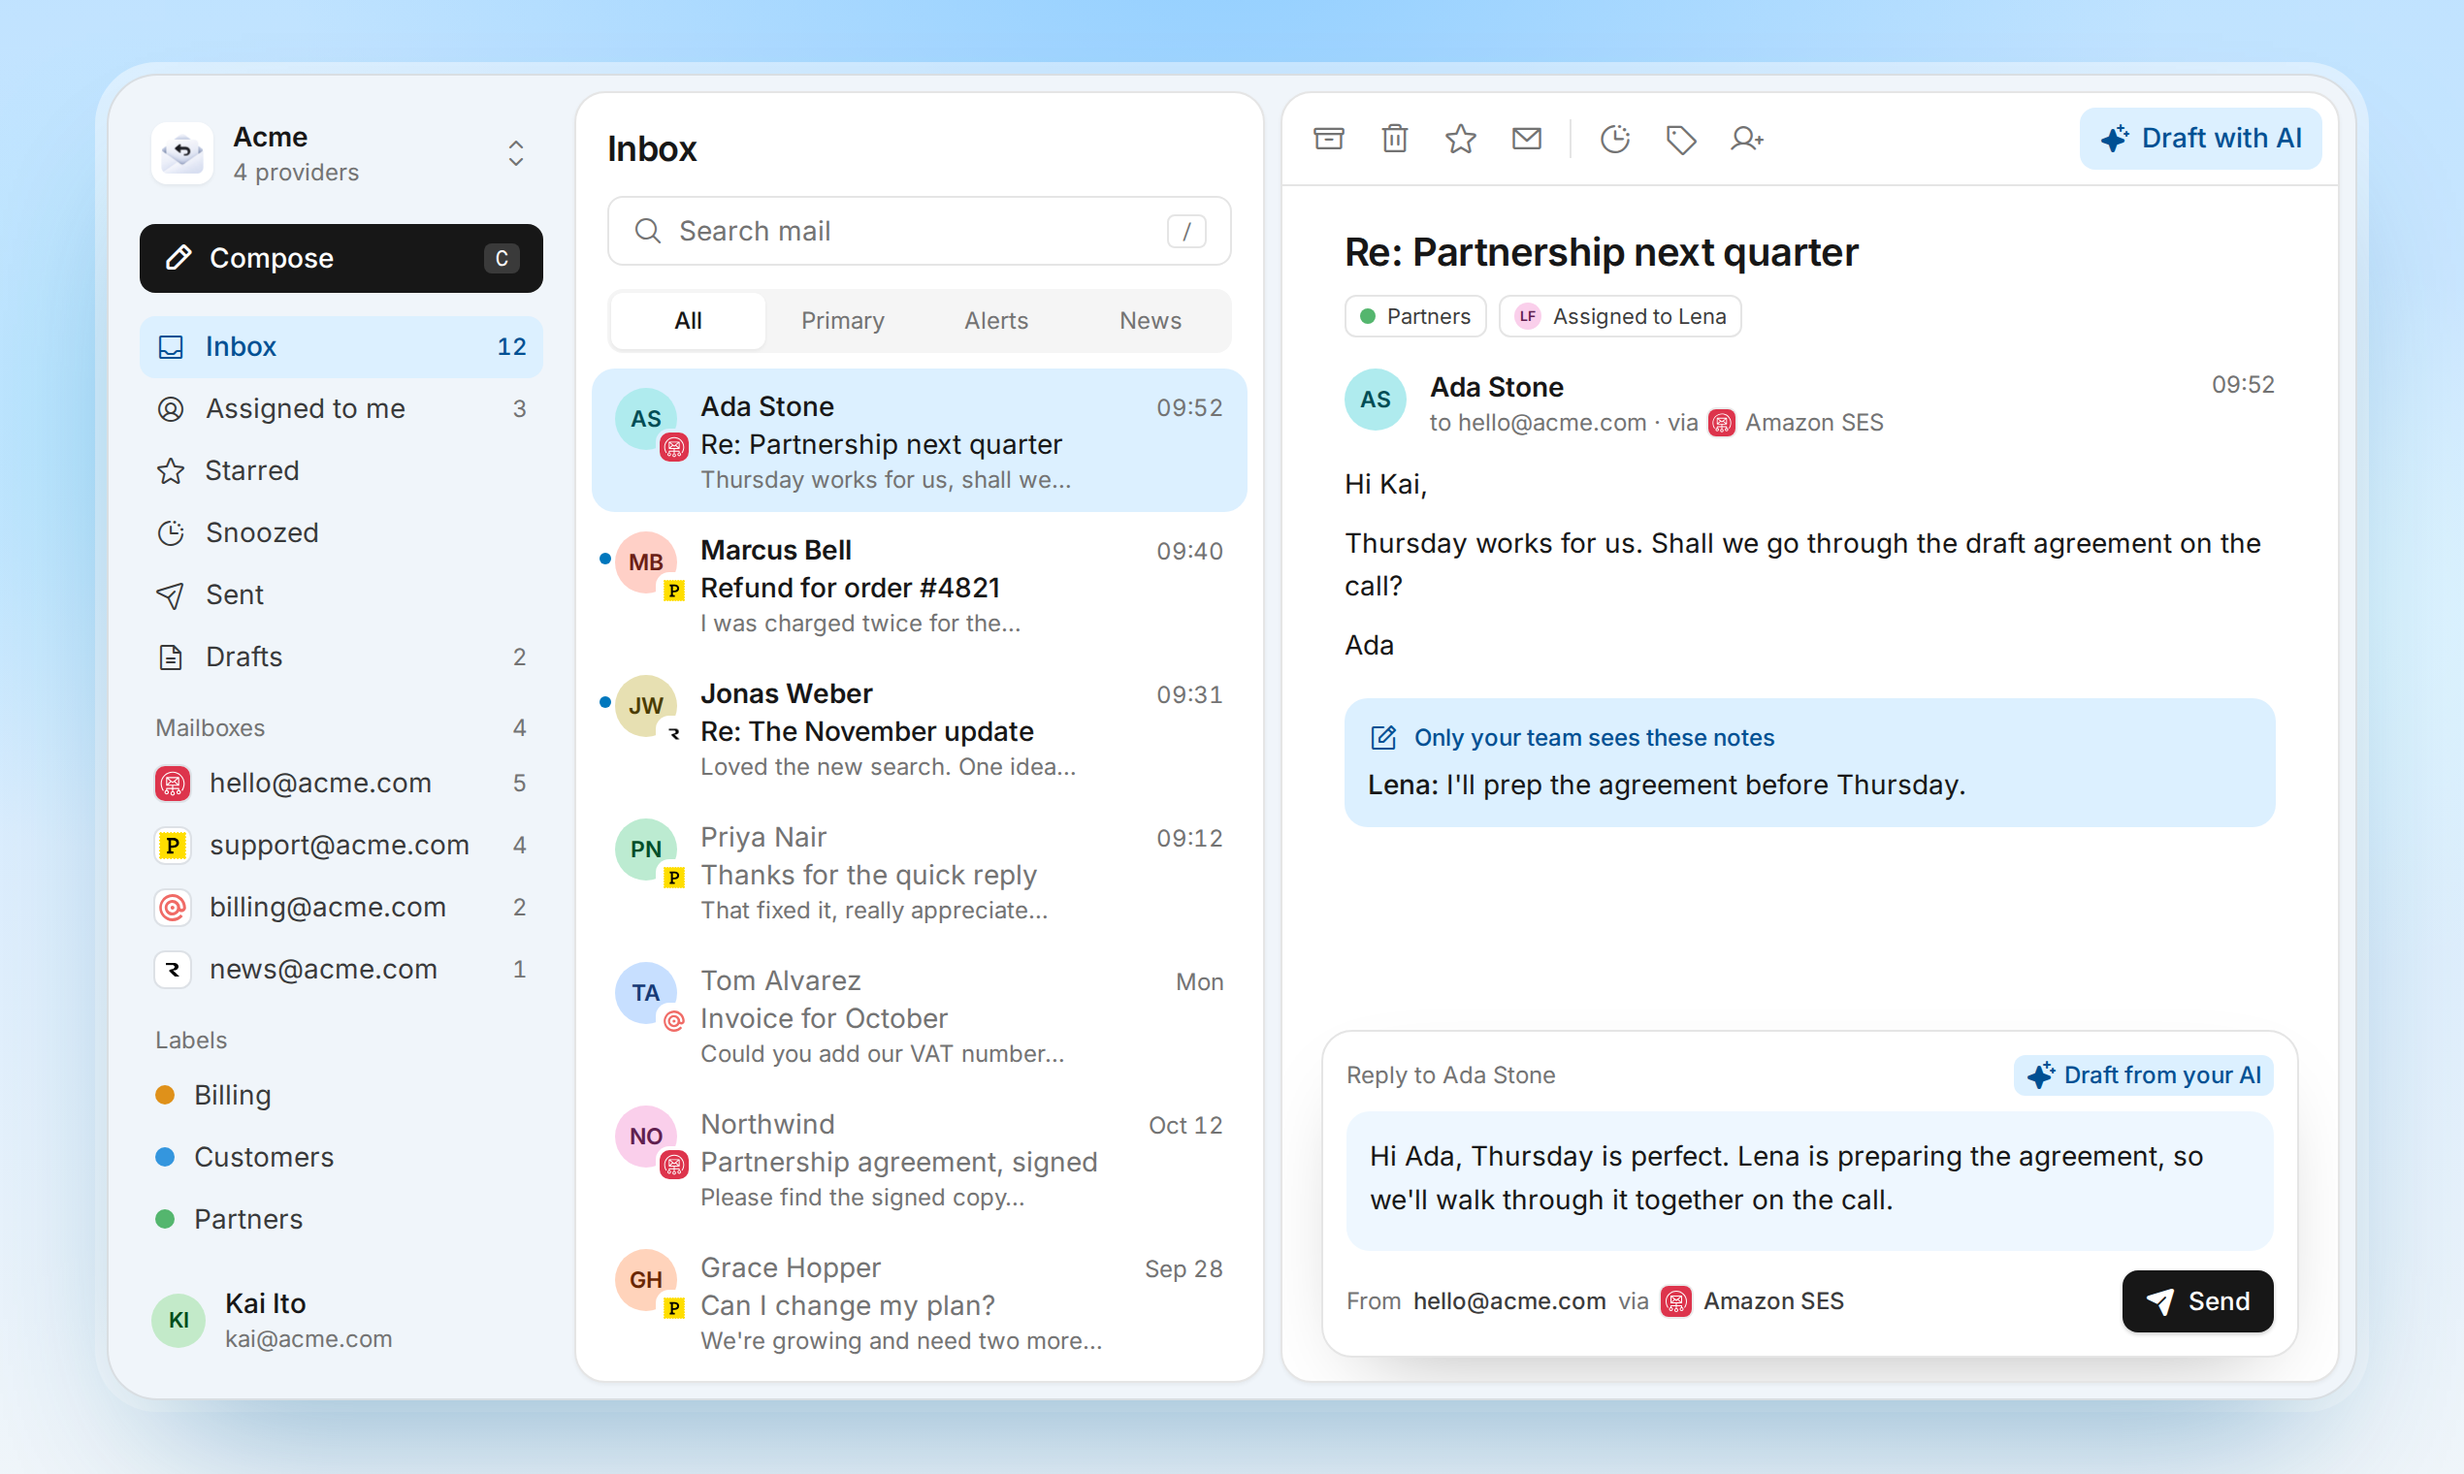
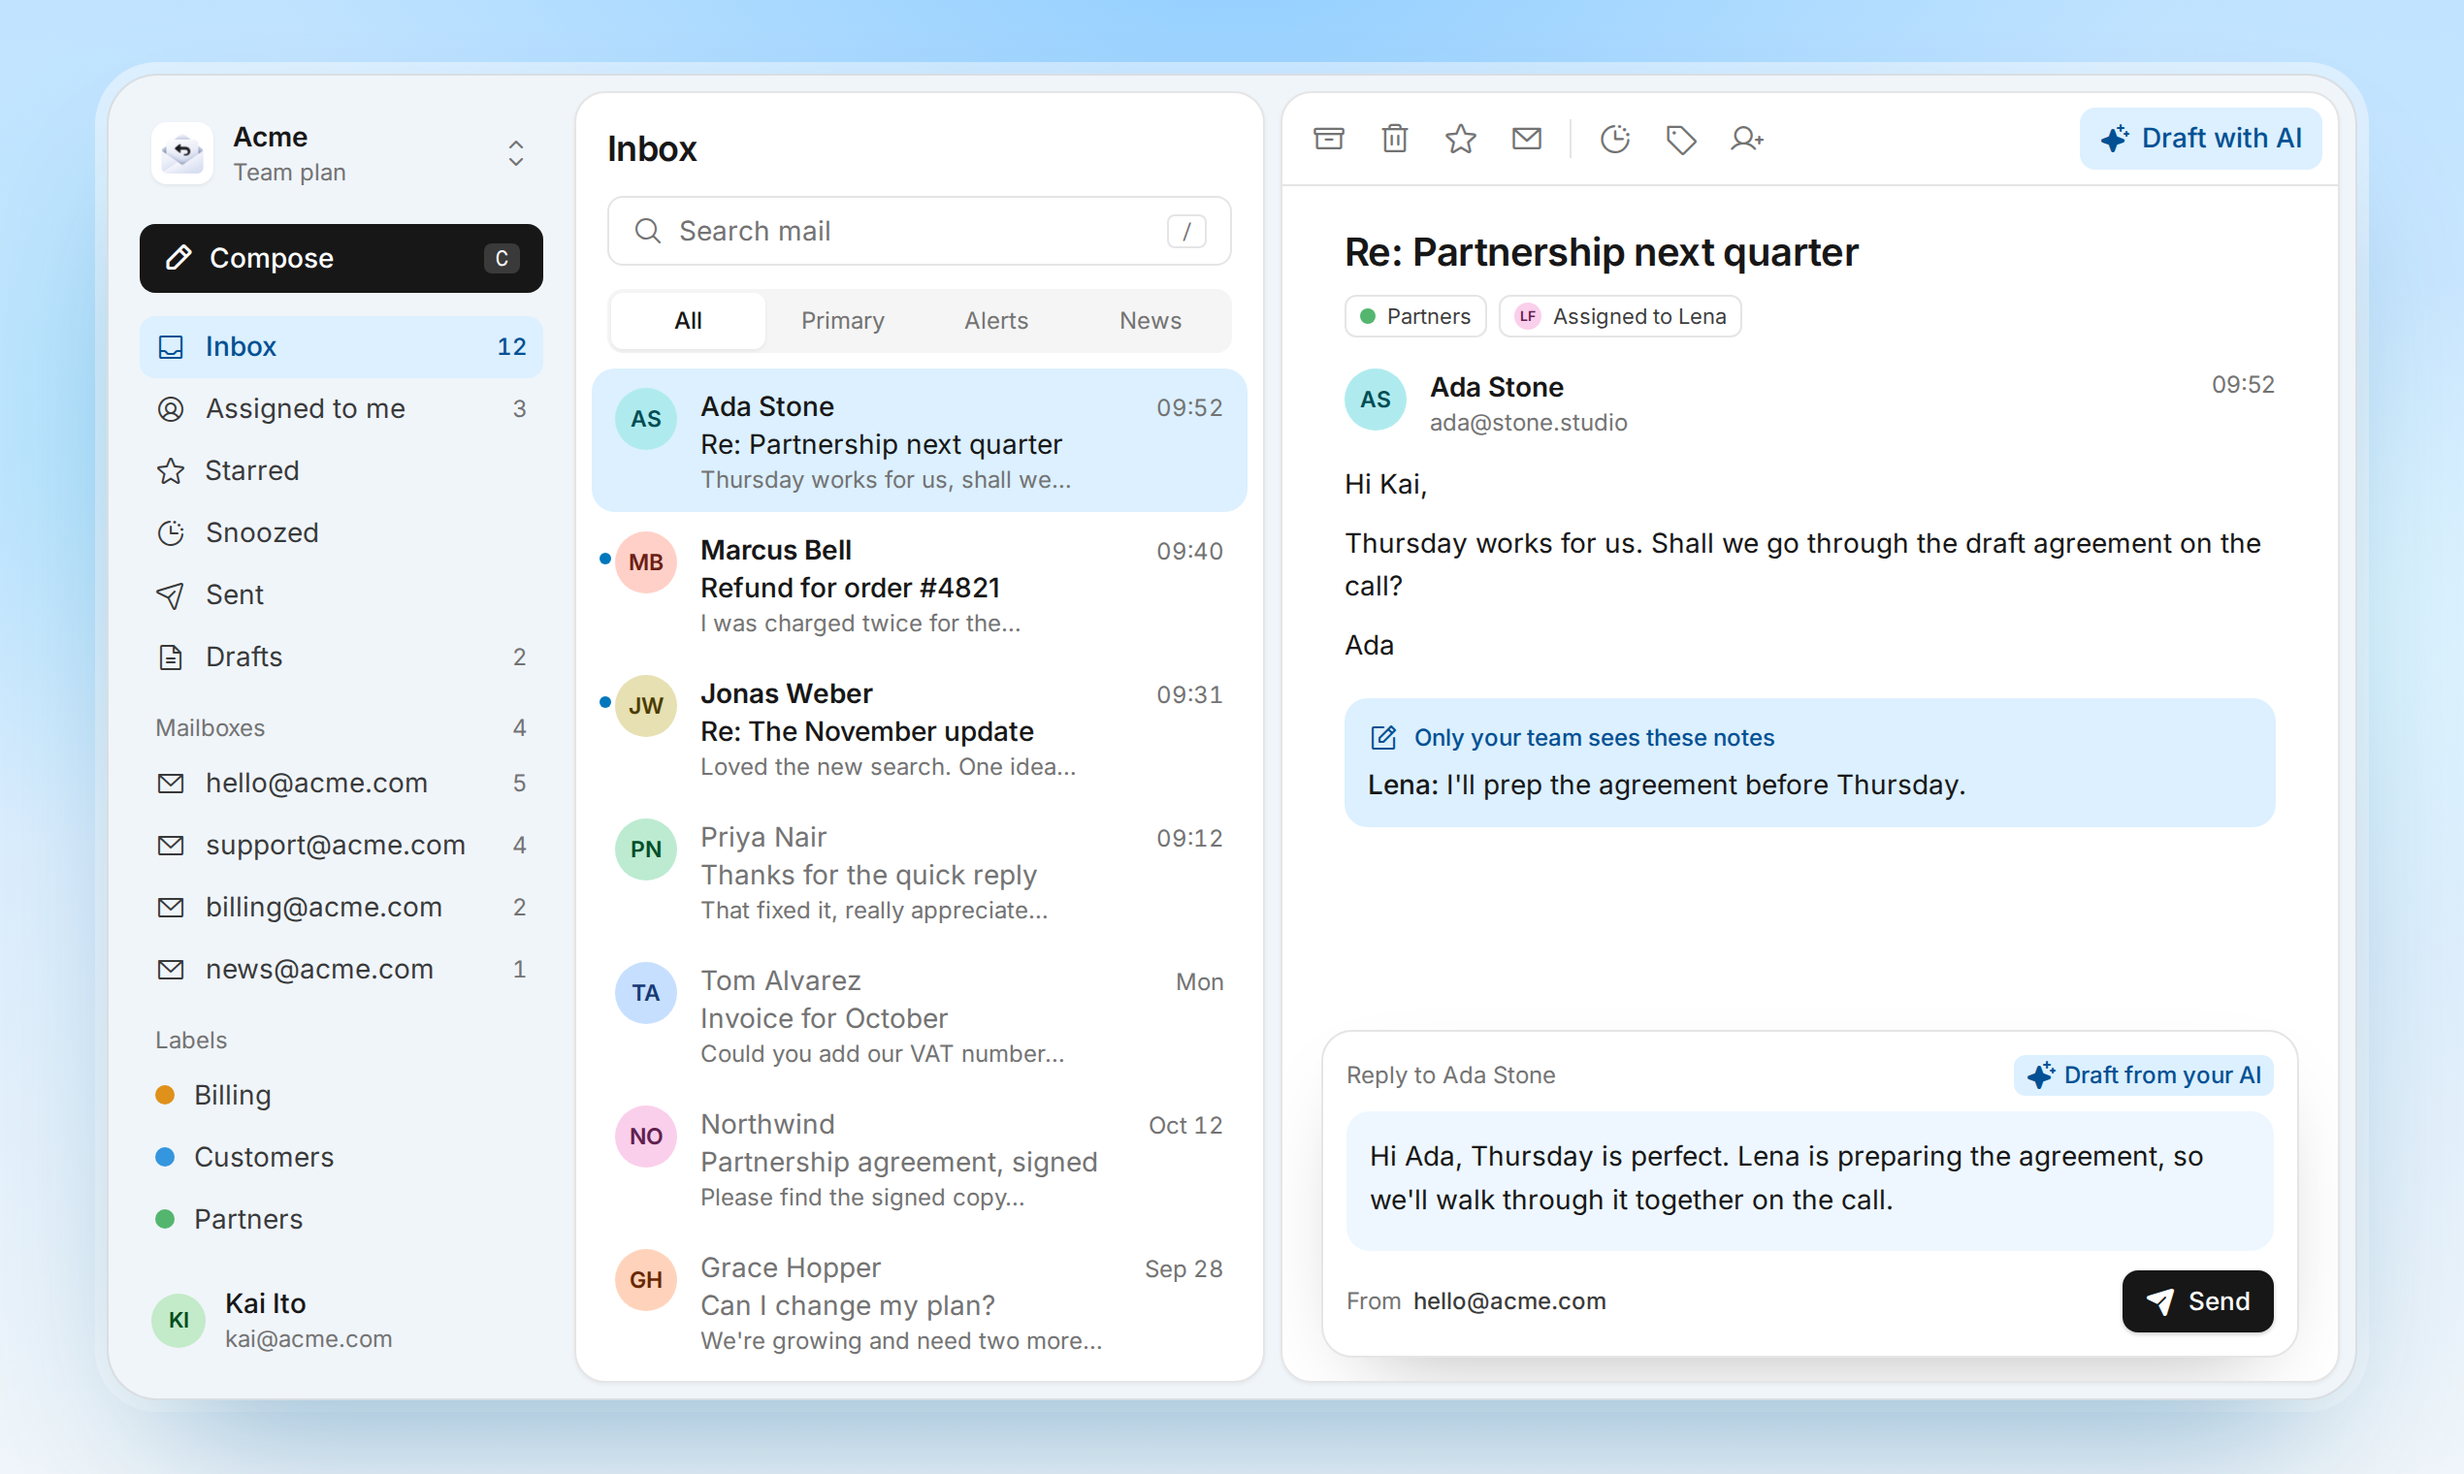
Show the inbox without provider marks in the screenshot and cover

diff --git a/profile/README.md b/profile/README.md
@@ -8,7 +8,7 @@ account, shows them to your whole team in one inbox, and sends your answers back
 same provider, from your own domain. You keep your provider, your domains and your sending
 reputation.
 
-<img src="screenshot.png" alt="The HelloBox inbox: four mailboxes on Amazon SES, Postmark, Mailgun and Resend, a conversation assigned to a teammate with an internal note, and a reply sent through Amazon SES" width="100%">
+<img src="screenshot.png" alt="The HelloBox inbox: shared mailboxes for hello@, support@, billing@ and news@, a conversation assigned to a teammate with an internal note, and an AI-drafted reply" width="100%">
 
 ### What it does
 
